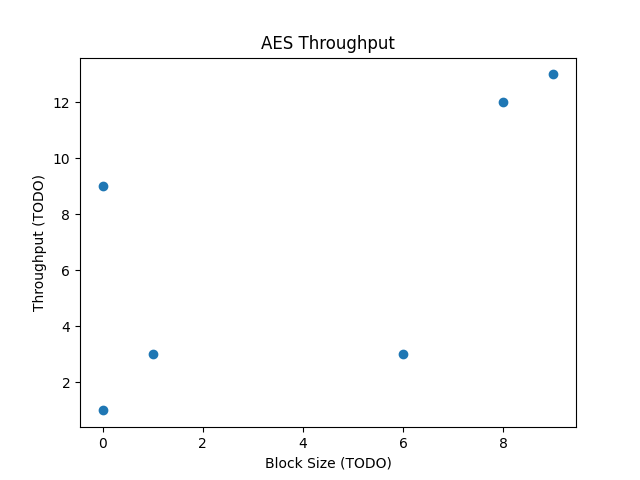
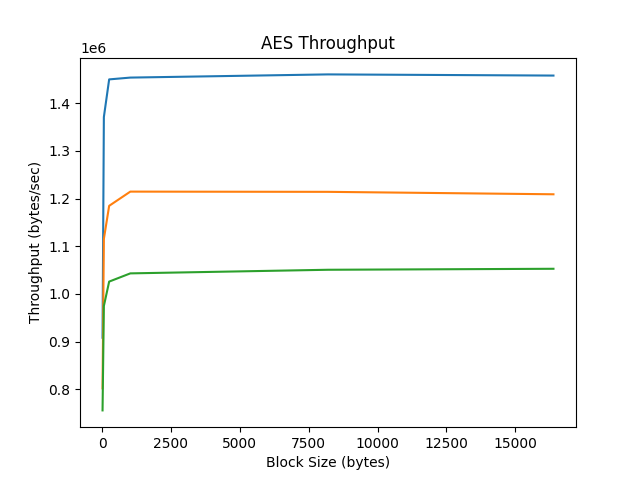
task 3 finished BUT i need someone to look at it still

diff --git a/mod2/block_ciphers/task3.py b/mod2/block_ciphers/task3.py
@@ -1,35 +1,81 @@
 import matplotlib.pyplot as plt
 import numpy as np
 
+def throughput_conversion(block_size_array, fn_per_sec_array):
+    # Convert to bytes (divide by 8)
+    bytes_array = [x//8 for x in block_size_array]
+    # Mulitply that by the x/second
+    return [x*y for x, y in zip(bytes_array, fn_per_sec_array)]
 
 if __name__ == '__main__':
-    folder = './report/plts/'
+    # TODO: torrey I need you to check this I have no idea if I did this correctly
+    img_folder = './report/plts/'
 
-    # block size vs. throughput for the various AES key sizes
-    aes_x_pts = np.array([1, 8, 9, 0, 6, 0])
-    aes_y_pts = np.array([3, 12, 13 , 1, 3, 9])
+    ###########
+    ### AES ###
+    ###########
 
-    plt.plot(aes_x_pts, aes_y_pts, 'o')
+    # AES block size vs. throughput for the various AES key sizes
+    # The 'numbers' are in 1000s of bytes per second processed.
+    # type             16 bytes     64 bytes    256 bytes   1024 bytes   8192 bytes  16384 bytes
+    # aes-128-cbc     907976.50k  1371144.26k  1450141.88k  1453933.91k  1460622.64k  1458176.00k
+    # aes-192-cbc     801784.54k  1115350.47k  1184813.14k  1214624.62k  1214158.51k  1209035.43k
+    # aes-256-cbc     755476.00k   974607.32k  1025784.89k  1043042.30k  1050611.67k  1052685.70k
+    aes_x_pts = np.array([16, 64, 256, 1024, 8192, 16384])
+
+    aes_y_128_pts = np.array([907976.50, 1371144.26, 1450141.88, 1453933.91, 1460622.64, 1458176.00])
+    aes_y_192_pts = np.array([801784.54, 1115350.47, 1184813.14, 1214624.62, 1214158.51, 1209035.43])
+    aes_y_256_pts = np.array([755476.00, 974607.32, 1025784.89, 1043042.30, 1050611.67, 1052685.70])
+
+    plt.plot(aes_x_pts, aes_y_128_pts, label='aes-128-cbc')
+    plt.plot(aes_x_pts, aes_y_192_pts, label='aes-192-cbc')
+    plt.plot(aes_x_pts, aes_y_256_pts, label='aes-256-cbc')
+
     plt.title('AES Throughput')
-    plt.xlabel('Block Size (TODO)')
-    plt.ylabel('Throughput (TODO)')
-    plt.savefig(folder + 'aes.png')
-    # plt.show()
+    plt.xlabel('Block Size (bytes)')
+    plt.ylabel('Throughput (bytes/sec)')
+    plt.legend()
+    plt.savefig(img_folder+ 'aes.png')
+    plt.show()
 
-    plt.clf()
+
+    ###########
+    ### RSA ###
+    ###########
 
     # RSA block size vs. throughput for the four RSA functions 
-    rsa_x_pts = np.array([1, 1, 1, 1, 1])
-    rsa_y_pts = np.array([1, 2, 4, 1, 2])
-
-    plt.plot(rsa_x_pts, rsa_y_pts, 'o')
-    plt.title('RSA')
-    plt.xlabel('Block Size (TODO)')
-    plt.ylabel('Throughput (TODO)')
-    plt.savefig(folder + 'rsa.png')
-    # plt.show()
+    #                     sign    verify   encrypt   decrypt   sign/s verify/s encr./s   decr./s
+    # rsa   512 bits 0.000042s 0.000003s 0.000003s 0.000054s  23860.1 386845.4 292813.3  18568.3
+    # rsa  1024 bits 0.000094s 0.000006s 0.000007s 0.000106s  10661.9 161903.0 138038.5   9442.1
+    # rsa  2048 bits 0.000643s 0.000019s 0.000021s 0.000659s   1556.4  52342.1  48483.4   1518.2
+    # rsa  3072 bits 0.001998s 0.000039s 0.000041s 0.001947s    500.4  25682.0  24484.7    513.7
+    # rsa  4096 bits 0.004292s 0.000067s 0.000069s 0.004328s    233.0  14965.3  14458.9    231.1
+    # rsa  7680 bits 0.039331s 0.000224s 0.000229s 0.039291s     25.4   4457.8   4375.3     25.5
+    # rsa 15360 bits 0.204694s 0.000860s 0.000869s 0.205102s      4.9   1162.4   1150.7      4.9
     
+    rsa_x_pts = np.array([512, 1024, 2048, 3072, 4096, 7680, 15360])
 
+    rsa_y_sign_pts = np.array([23860.1, 10661.9, 1556.4, 500.4, 233.0, 25.4, 4.9])
+    rsa_y_verify_pts = np.array([386845.4, 161903.0, 52342.1, 25682.0, 14965.3, 4457.8, 1162.4])
+    rsa_y_encr_pts = np.array([292813.3, 138038.5, 48483.4, 24484.7, 14458.9, 4375.3, 1150.7])
+    rsa_y_decr_pts = np.array([18568.3, 9442.1, 1518.2, 513.7, 231.1, 25.5, 4.9])
+    
+    # convert the throughput from operation/sec to bytes/sec
+    rsa_y_sign_pts = throughput_conversion(rsa_x_pts, rsa_y_sign_pts) 
+    rsa_y_verify_pts = throughput_conversion(rsa_x_pts, rsa_y_verify_pts)
+    rsa_y_encr_pts = throughput_conversion(rsa_x_pts, rsa_y_encr_pts)
+    rsa_y_decr_pts = throughput_conversion(rsa_x_pts, rsa_y_decr_pts)
 
+    plt.plot(rsa_x_pts, rsa_y_sign_pts, label='sign')
+    plt.plot(rsa_x_pts, rsa_y_verify_pts, label='verify')
+    plt.plot(rsa_x_pts, rsa_y_encr_pts, label='encr.')
+    plt.plot(rsa_x_pts, rsa_y_decr_pts, label='decr.')
 
-
+    plt.title('RSA')
+    plt.xlabel('Block Size (bytes)')
+    plt.ylabel('Throughput (bytes/sec)')
+    plt.legend()
+    plt.savefig(img_folder + 'rsa.png')
+    plt.show()
+   
+    

diff --git a/mod2/block_ciphers/report/labreport.tex b/mod2/block_ciphers/report/labreport.tex
@@ -35,18 +35,18 @@ This lab explores symmetric key cryptography security with both Electronic Codeb
 \subsection*{Solutions}
 
 \section*{Task 3: Performance Comparison}
-\begin{figure}[h!]
+\begin{figure}
 	\centering
 	\includegraphics[width=0.8\textwidth]{./plts/aes.png}
 	%\caption{}
-	%\label{}
+	\label{fig.1: Performance of AES}
 \end{figure}
 
-\begin{figure}[h!]
+\begin{figure}
 	\centering
 	\includegraphics[width=0.8\textwidth]{./plts/rsa.png}
 	%\caption{}
-	%\label{}
+	\label{fig.2: Performance of RSA}
 \end{figure}
 
 \section*{Questions}
